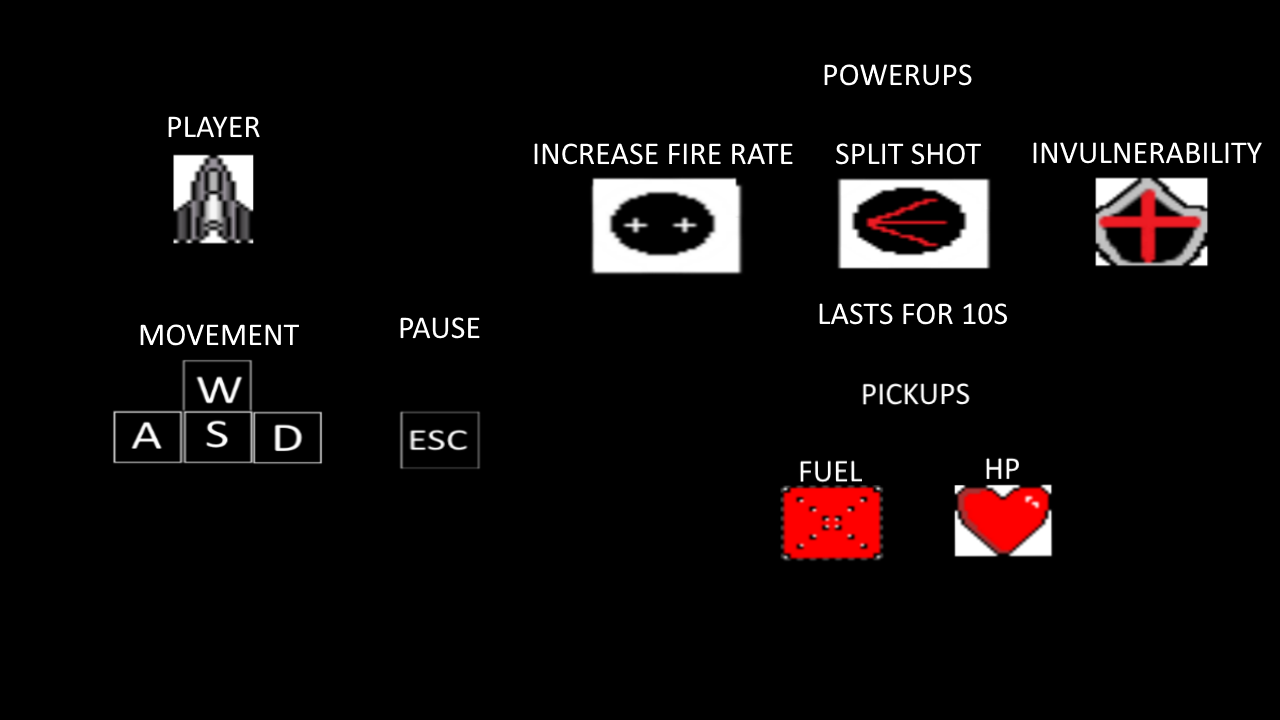
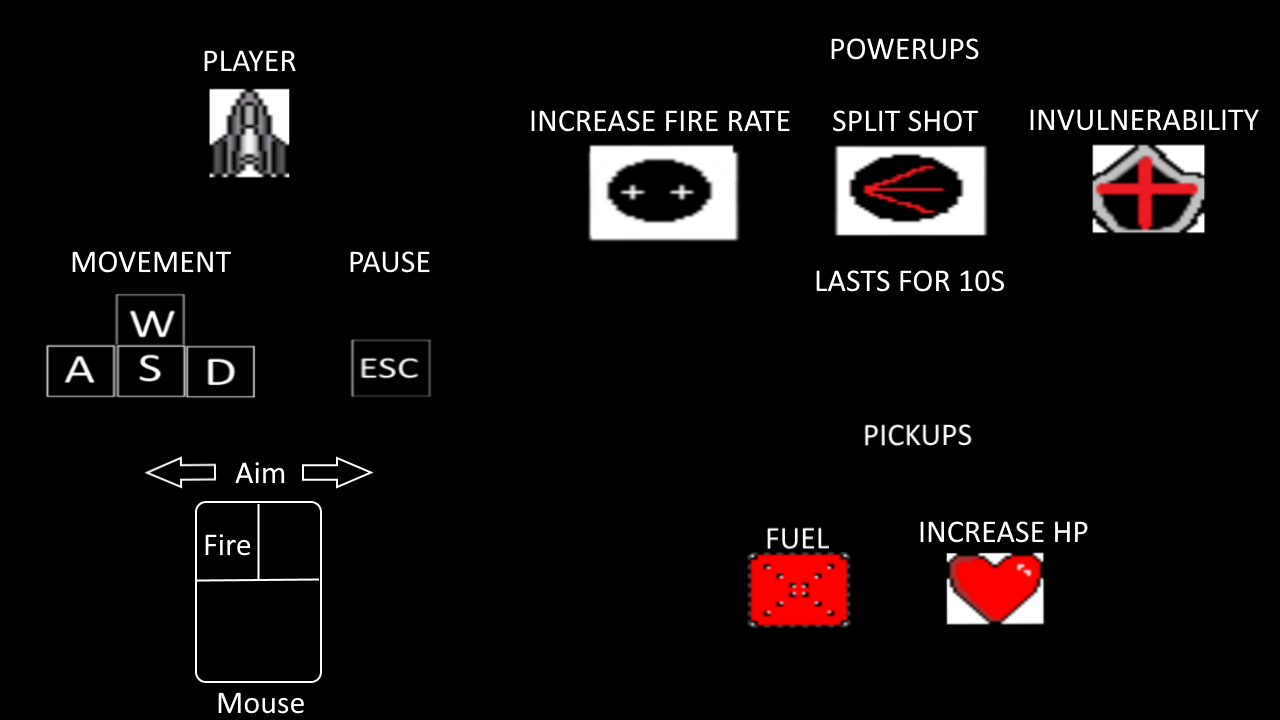
page2 of help screen

diff --git a/src/asteroids/main_menu.c b/src/asteroids/main_menu.c
@@ -6,20 +6,29 @@
 bool status;
 static int input;
 
+bool page1;
+bool page2;
+
 DIFFICULTY ASTEROIDS_GAME_DIFFICULTY = NORMAL;
 static CP_Color backgroundColor;
 static CP_Color textColor;
 static float menuTextSize;
 static char* menuText = "Asteroids";
 
-Button Credits, Play, Quit, Leaderboard, Controls, Exit, EzButton;
+Button Credits, Play, Quit, Leaderboard, Controls, Exit, EzButton, NextPage, PrevPage;
 CP_Image Control_screen;
+CP_Image Control_screen2;
 
 void Asteroids_MainMenu_Init(void)
 {
 	status = true;
+	page1 = true;
+	page2 = false;
+
 	Asteroids_Menu_Settings_Setup(WIN_WIDTH, WIN_HEIGHT);
 	Asteroids_MainMenu_Button_Init();
+	Control_screen = CP_Image_Load("./Assets/Control_screen.png");
+	Control_screen2 = CP_Image_Load("./Assets/Control_screen2.png");
 
 	if (ASTEROIDS_GAME_DIFFICULTY == EASY)
 	{
@@ -66,6 +75,7 @@ void Asteroids_Draw_MainMenu(void)
 	else if (!status)
 	{
 		Asteroids_MainMenu_CheckInput();
+		Asteroids_Button_Update(&Exit);
 	}
 
 }
@@ -81,16 +91,19 @@ void Asteroids_MainMenu_Button_Init(void)
 	float y1 = y2 - BUTTON_HEIGHT;
 	float y3 = y2 + BUTTON_HEIGHT;
 
-	Control_screen = CP_Image_Load("./Assets/Control_screen.png");
-
+	// Main Menu Button
 	CP_Vector pos1 = CP_Vector_Set(x1, y1);
 	CP_Vector pos2 = CP_Vector_Set(x1, y2);
 	CP_Vector pos3 = CP_Vector_Set(x1, y3);
 	CP_Vector pos4 = CP_Vector_Set(x2, y1);
 	CP_Vector pos5 = CP_Vector_Set(x2, y2);
 
-	CP_Vector pos6 = CP_Vector_Set((float)((WIN_WIDTH / 2 - BUTTON_WIDTH / 2)), (float)(WIN_HEIGHT / 2 + BUTTON_HEIGHT * 5));
+	CP_Vector pos6 = CP_Vector_Set((float)((WIN_WIDTH / 2 - BUTTON_WIDTH / 2)), (float)(WIN_HEIGHT - BUTTON_HEIGHT));
 	CP_Vector pos7 = CP_Vector_Set((float)WIN_WIDTH - 200, 50);
+
+	// Control screen buttons
+	CP_Vector pos8 = CP_Vector_Set((float)WIN_WIDTH - BUTTON_WIDTH, (float)(WIN_HEIGHT / 2)); // Next Page
+	CP_Vector pos9 = CP_Vector_Set(0, (float)(WIN_HEIGHT / 2)); // Prev page
 
 	Play = Asteroids_Button_Add_New_Button(BUTTON_WIDTH, BUTTON_HEIGHT);
 	Controls = Asteroids_Button_Add_New_Button(BUTTON_WIDTH, BUTTON_HEIGHT);
@@ -99,14 +112,18 @@ void Asteroids_MainMenu_Button_Init(void)
 	Quit = Asteroids_Button_Add_New_Button(BUTTON_WIDTH, BUTTON_HEIGHT);
 	Exit = Asteroids_Button_Add_New_Button(BUTTON_WIDTH, BUTTON_HEIGHT);
 	EzButton = Asteroids_Button_Add_New_Button(BUTTON_WIDTH, BUTTON_HEIGHT);
+	NextPage = Asteroids_Button_Add_New_Button(BUTTON_WIDTH, BUTTON_HEIGHT);
+	PrevPage = Asteroids_Button_Add_New_Button(BUTTON_WIDTH, BUTTON_HEIGHT);
 
 	Asteroids_Button_Set_Text(&Play, textSize, "Play");
-	Asteroids_Button_Set_Text(&Controls, textSize, "Controls");
+	Asteroids_Button_Set_Text(&Controls, textSize, "Help");
 	Asteroids_Button_Set_Text(&Credits, textSize, "Credits");
 	Asteroids_Button_Set_Text(&Leaderboard, textSize, "Leaderboard");
 	Asteroids_Button_Set_Text(&Quit, textSize, "Quit");
 	Asteroids_Button_Set_Text(&Exit, textSize, "Exit");
 	Asteroids_Button_Set_Text(&EzButton, textSize, "Ez Mode");
+	Asteroids_Button_Set_Text(&NextPage, textSize, "Next");
+	Asteroids_Button_Set_Text(&PrevPage, textSize, "Back");
 
 	Asteroids_Button_Set_Position(&Play, pos1);
 	Asteroids_Button_Set_Position(&Controls, pos2);
@@ -115,13 +132,14 @@ void Asteroids_MainMenu_Button_Init(void)
 	Asteroids_Button_Set_Position(&Quit, pos5);
 	Asteroids_Button_Set_Position(&Exit, pos6);
 	Asteroids_Button_Set_Position(&EzButton, pos7);
+	Asteroids_Button_Set_Position(&NextPage, pos8);
+	Asteroids_Button_Set_Position(&PrevPage, pos9);
 
 	Asteroids_Button_Set_Callback(&Asteroids_Play_Game, &Play);
 	Asteroids_Button_Set_Callback(&Asteroids_Controls, &Controls);
 	Asteroids_Button_Set_Callback(&Asteroids_Credits, &Credits);
 	Asteroids_Button_Set_Callback(&Asteroids_LeaderBoard, &Leaderboard);
 	Asteroids_Button_Set_Callback(&Asteroids_QuitGame, &Quit);
-	Asteroids_Button_Set_Callback(&Asteroids_Exit_Screen, &Exit);
 	Asteroids_Button_Set_Callback(&Asteroids_Exit_Screen, &Exit);
 	Asteroids_Button_Set_Callback(&Asteroids_Menu_Set_Difficulty, &EzButton);
 }
@@ -169,7 +187,6 @@ void Asteroids_Credits(void)
 	CP_Settings_Fill(CP_Color_Create(255, 255, 255, 255));
 	CP_Font_DrawTextBox("Credits (TODO)", 0.0f, (float)(WIN_HEIGHT / 2), (float)WIN_WIDTH);
 
-	Asteroids_Button_Update(&Exit);
 }
 
 void Asteroids_LeaderBoard(void)
@@ -180,9 +197,9 @@ void Asteroids_LeaderBoard(void)
 	CP_Settings_Background(CP_Color_Create(0, 0, 0, 255));
 	CP_Settings_TextSize(100.0f);
 	CP_Settings_Fill(CP_Color_Create(255, 255, 255, 255));
+
 	CP_Font_DrawTextBox("LeaderBoard (TODO)", 0.0f, (float)(WIN_HEIGHT / 2), (float)WIN_WIDTH);
 
-	Asteroids_Button_Update(&Exit);
 }
 void Asteroids_Controls(void)
 {	
@@ -190,15 +207,49 @@ void Asteroids_Controls(void)
 	status = false;
 
 	CP_Settings_Background(CP_Color_Create(0, 0, 0, 255));
-	CP_Image_Draw(Control_screen, (float)WIN_WIDTH/2.0f, (float)WIN_HEIGHT / 2.0f, (float)WIN_WIDTH, (float)WIN_HEIGHT, 255);
+	CP_Vector pos8 = CP_Vector_Set((float)WIN_WIDTH - BUTTON_WIDTH, (float)(WIN_HEIGHT / 2)); // Next Page
+	CP_Vector pos9 = CP_Vector_Set(0, (float)(WIN_HEIGHT / 2)); // Prev page
+	CP_Vector mouse;
+	mouse.x = CP_Input_GetMouseX();
+	mouse.y = CP_Input_GetMouseY();
 
-	Asteroids_Button_Update(&Exit);
+	if(page1)
+	{
+		CP_Image_Draw(Control_screen, (float)WIN_WIDTH / 2.0f, (float)WIN_HEIGHT / 2.0f, (float)WIN_WIDTH, (float)WIN_HEIGHT, 255);
+		Asteroids_Button_Update(&NextPage);
+		if (mouse.x >= pos8.x && mouse.x <= pos8.x + BUTTON_WIDTH && 
+			mouse.y >= pos8.y && mouse.y <= pos8.y + BUTTON_HEIGHT)
+		{
+			if (CP_Input_MouseClicked())
+			{
+				page1 = false;
+				page2 = true;
+			}
+		}
+	}
+	if (page2)
+	{
+		CP_Image_Draw(Control_screen2, (float)WIN_WIDTH / 2.0f, (float)WIN_HEIGHT / 2.0f, (float)WIN_WIDTH, (float)WIN_HEIGHT, 255);
+		Asteroids_Button_Update(&PrevPage);
+		if (mouse.x >= pos9.x && mouse.x <= pos9.x + BUTTON_WIDTH &&
+			mouse.y >= pos9.y && mouse.y <= pos9.y + BUTTON_HEIGHT)
+		{
+			if (CP_Input_MouseClicked())
+			{
+				page1 = true;
+				page2 = false;
+			}
+		}
+	}
+
 }
 
 void Asteroids_Exit_Screen(void)
 {
 	input = 0;
 	status = true;
+	page1 = true;
+	page2 = false;
 }
 
 void Asteroids_MainMenu_CheckInput(void)

diff --git a/src/asteroids/powerups.c b/src/asteroids/powerups.c
@@ -172,7 +172,6 @@ void Asteroids_Spawn_Floating_Powerup(void)	// Initialize variables for floating
 	{
 		if (!powerup_pool[i].active && !powerup_pool[i].effect) //if inactive and effect not running, spawn.
 		{
-			printf("spawn\n");
 			powerup_pool[i].active = true;
 			powerup_pool[i].type = Asteroids_Generate_Random_Powerup();
 			powerup_pool[i].pos = Asteroids_Utility_Generate_Random_Pos();
@@ -207,12 +206,10 @@ void Asteroids_Powerup_Player_Collision(Powerup powerup[], struct Player* player
 			else if (powerup[i].type == INCREASE_BPM)
 			{
 				BPM = true;
-				printf("bpm = true \n");
 			}
 			else if (powerup[i].type == INVULNERABILITY)
 			{
 				invulnerable = true;
-				printf("invulnerable\n");
 			}
 			else if (powerup[i].type == BULLET_SPLIT)
 			{
@@ -281,14 +278,12 @@ void Asteroids_Powerup_Lifespan_Manager(Powerup* powerup)
 			{
 			case INVULNERABILITY:
 				invulnerable = false;
-				printf("invulnerability = false\n");
 				break;
 			case BULLET_SPLIT:
 				bullet_split = false;
 				break;
 			case INCREASE_BPM:
 				BPM = false;
-				printf("BPM = false\n");
 				break;
 			default:;
 								
